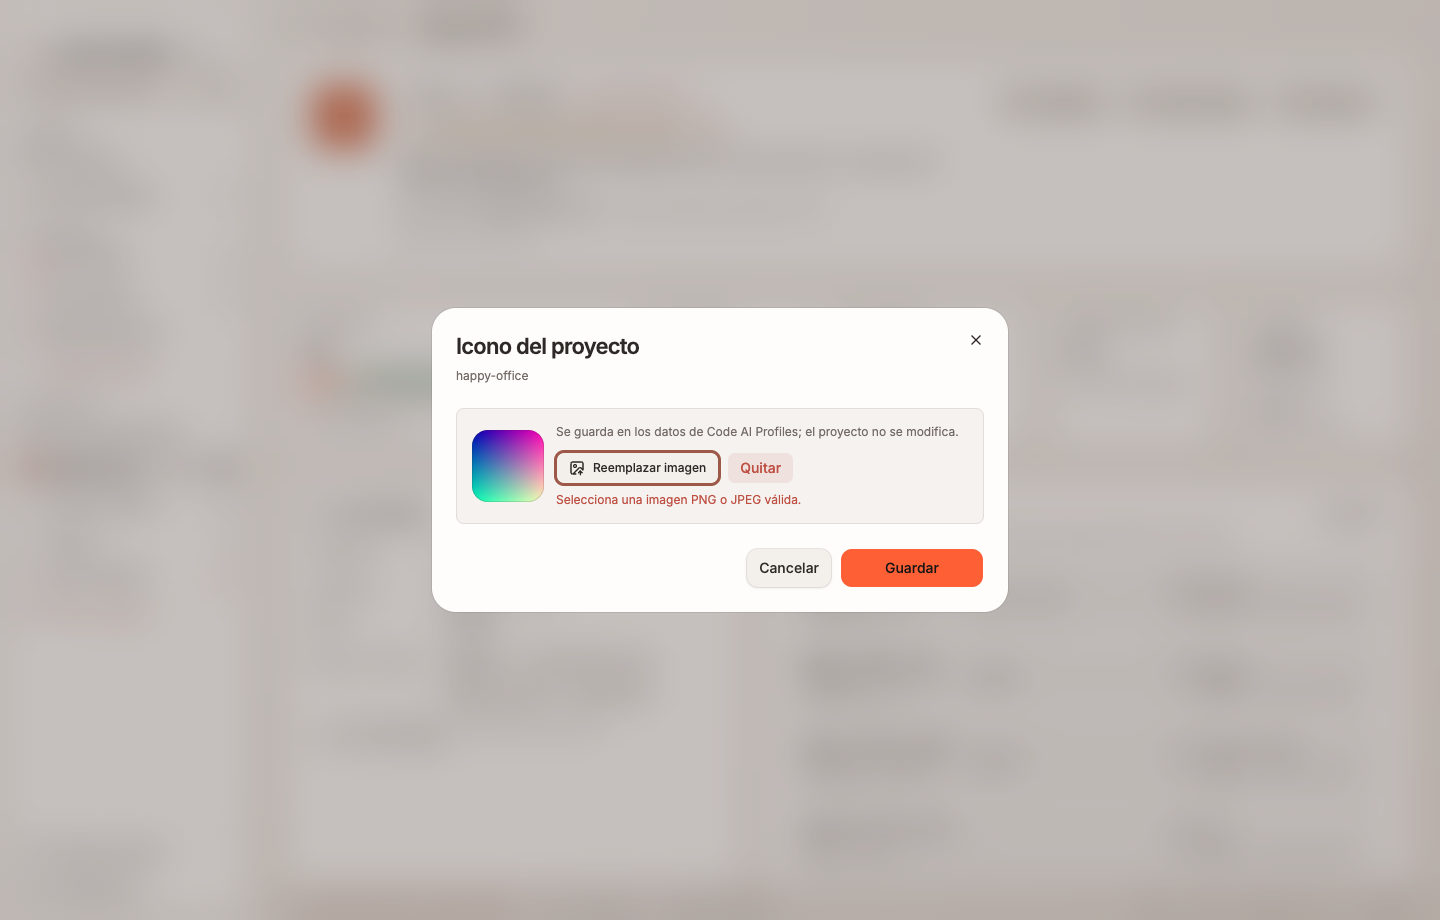
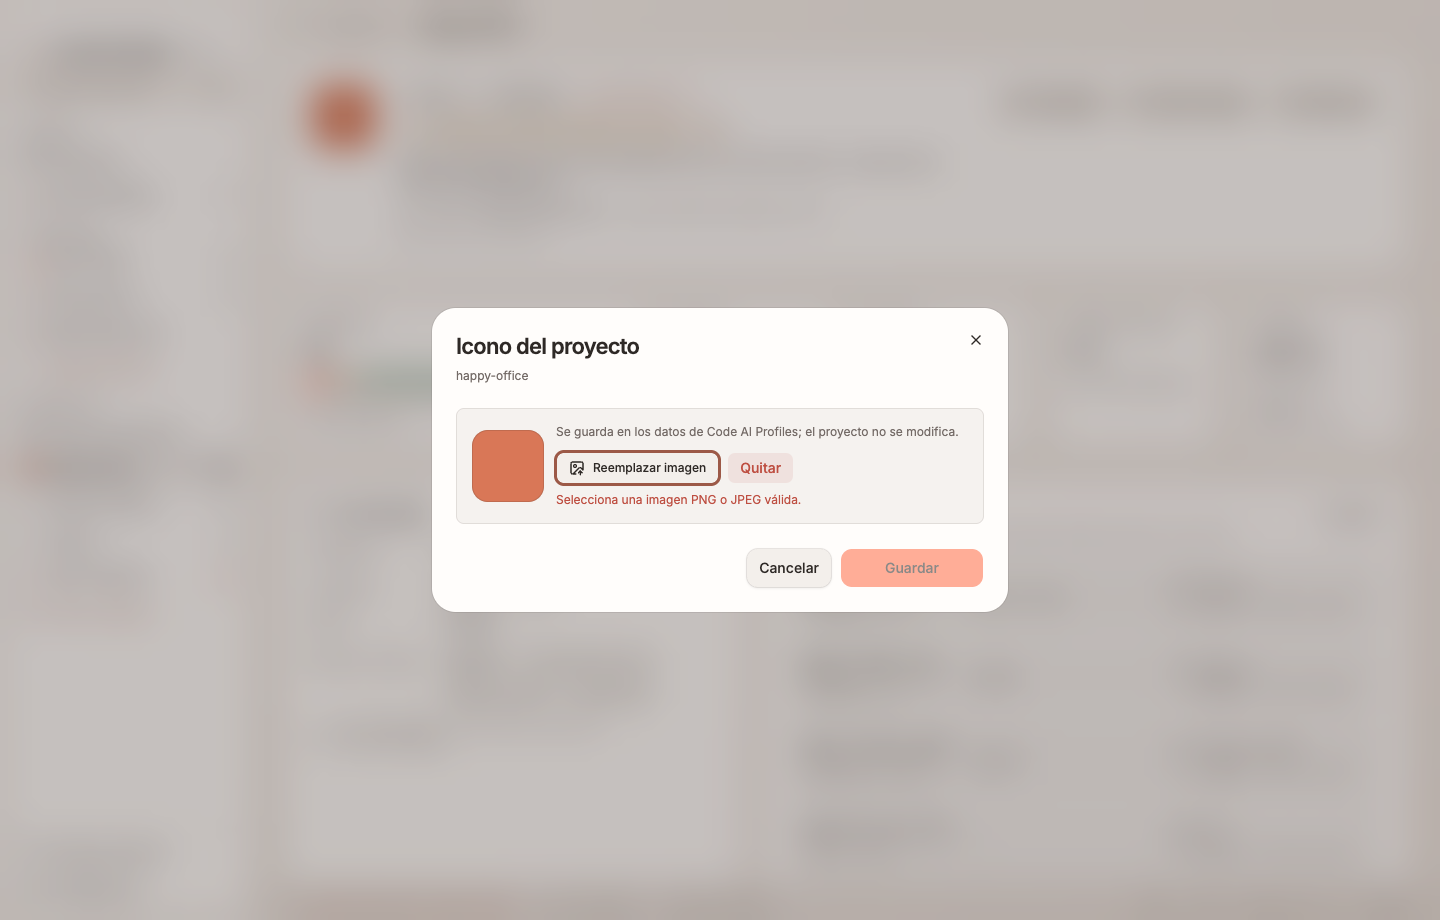
fix(proyectos): una selección de icono no válida deja «Guardar» desactivado
Ante un error de selección se descarta la imagen anterior (la vista previa vuelve al
icono guardado), gana la última selección y el avatar-botón se anuncia como
«Cambiar icono de {nombre}». Se rehacen las capturas 03-foco y 07-error.

HU: HU-0027

Changed region(s): [[0.5625, 0.5783, 0.6875, 0.6391], [0.3125, 0.4565, 0.375, 0.5478]]

diff --git a/src/features/projects/ProjectIconDialog.tsx b/src/features/projects/ProjectIconDialog.tsx
@@ -1,5 +1,5 @@
 import { ImageUpIcon } from "lucide-react";
-import { useState } from "react";
+import { useEffect, useRef, useState } from "react";
 import { Button } from "../../components/ui/button";
 import { Dialog, DialogContent, DialogDescription, DialogFooter, DialogHeader, DialogTitle } from "../../components/ui/dialog";
 import { FieldError } from "../../components/ui/field";
@@ -27,20 +27,34 @@ export function ProjectIconDialog({ project, onClose }: { project: ReadableProje
   const current = projectIconSource(project);
   const dirty = bytes !== null || (remove && project.icon !== null);
 
+  // Cada selección lleva un número: si llega otra antes de que termine la anterior, gana la última (O-3).
+  const selection = useRef(0);
+  // La vista previa es un `data:` de memoria; no hay URL que revocar, pero al cerrar se descarta cualquier resultado en vuelo.
+  useEffect(() => () => { selection.current += 1; }, []);
+
   const select = async (file: File | null) => {
+    const ticket = ++selection.current;
     setError(null);
     if (!file) return;
+    // Un error de selección deshace la selección válida anterior: la vista previa vuelve al estado guardado y «Guardar» se
+    // desactiva (R-1, AC-03). `remove` se deja como estaba.
+    const discard = (message: string) => {
+      setBytes(null);
+      setPreviewUrl(null);
+      setError(message);
+    };
     const fileError = iconFileError(file);
     if (fileError) {
-      setError(fileError);
+      discard(fileError);
       return;
     }
     try {
       const bitmap = await createImageBitmap(file);
       const dimensionsError = iconDimensionsError(bitmap.width, bitmap.height);
       bitmap.close();
+      if (ticket !== selection.current) return;
       if (dimensionsError) {
-        setError(dimensionsError);
+        discard(dimensionsError);
         return;
       }
       const preview = await new Promise<string>((resolve, reject) => {
@@ -49,11 +63,14 @@ export function ProjectIconDialog({ project, onClose }: { project: ReadableProje
         reader.onerror = () => reject(reader.error ?? new Error("No se pudo leer la imagen"));
         reader.readAsDataURL(file);
       });
-      setBytes(new Uint8Array(await file.arrayBuffer()));
+      const data = new Uint8Array(await file.arrayBuffer());
+      if (ticket !== selection.current) return;
+      setBytes(data);
       setPreviewUrl(preview);
       setRemove(false);
     } catch {
-      setError("No se pudo decodificar la imagen seleccionada.");
+      if (ticket !== selection.current) return;
+      discard("No se pudo decodificar la imagen seleccionada.");
     }
   };
 
@@ -112,6 +129,7 @@ export function ProjectIconDialog({ project, onClose }: { project: ReadableProje
                   size="sm"
                   disabled={saving}
                   onClick={() => {
+                    selection.current += 1;
                     setBytes(null);
                     setPreviewUrl(null);
                     setRemove(true);

diff --git a/src/features/projects/ProjectHero.tsx b/src/features/projects/ProjectHero.tsx
@@ -66,7 +66,7 @@ export function ProjectHero({
           <TooltipTrigger asChild>
             <button
               type="button"
-              aria-label="Cambiar icono del proyecto"
+              aria-label={`Cambiar icono de ${name}`}
               onClick={onOpenIcon}
               className="group/avatar relative size-16 cursor-pointer rounded-lg outline-none focus-visible:ring-2 focus-visible:ring-ring"
             >
